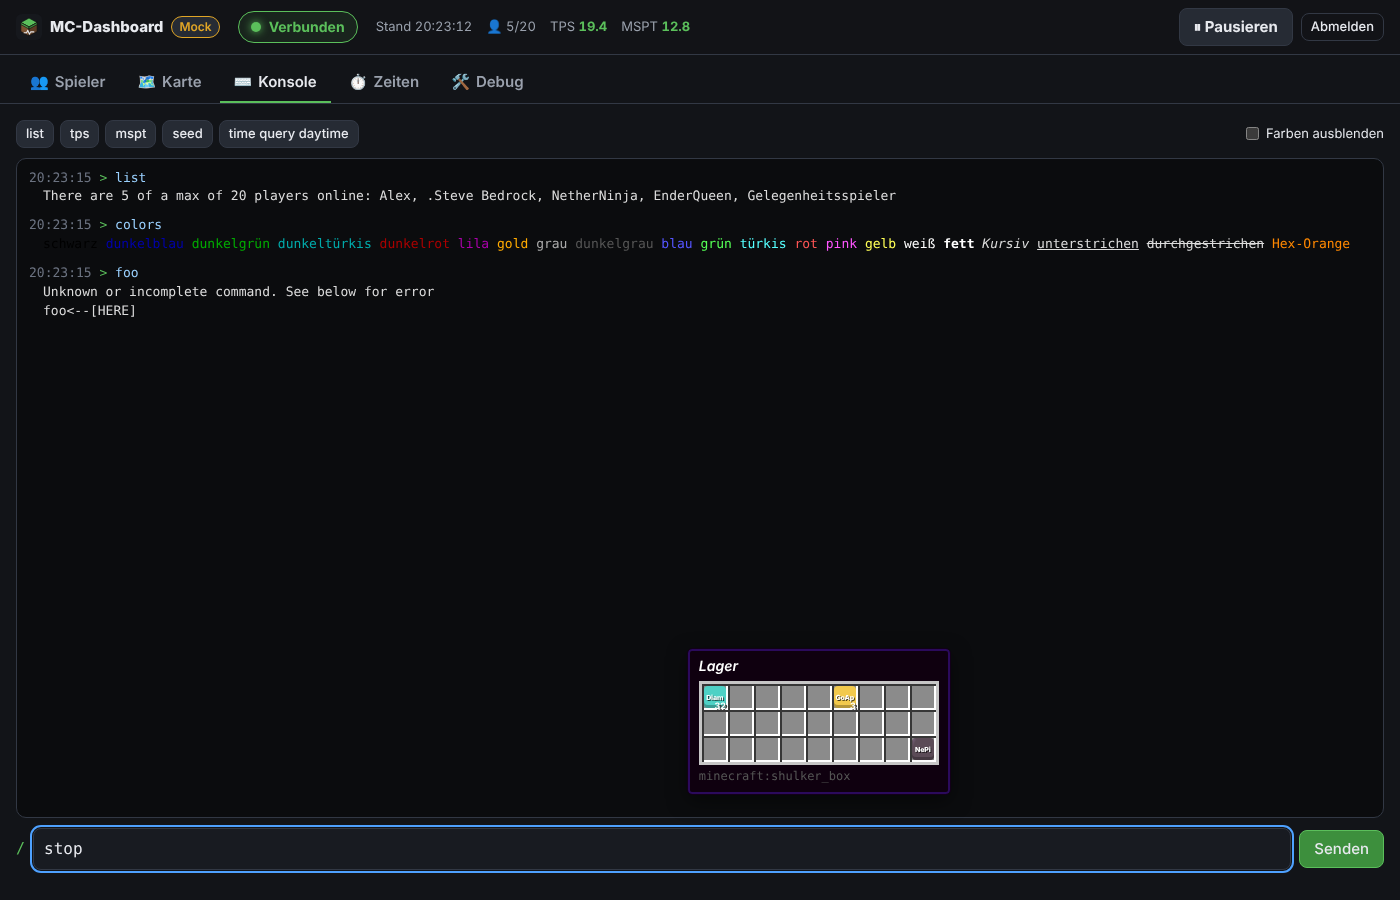
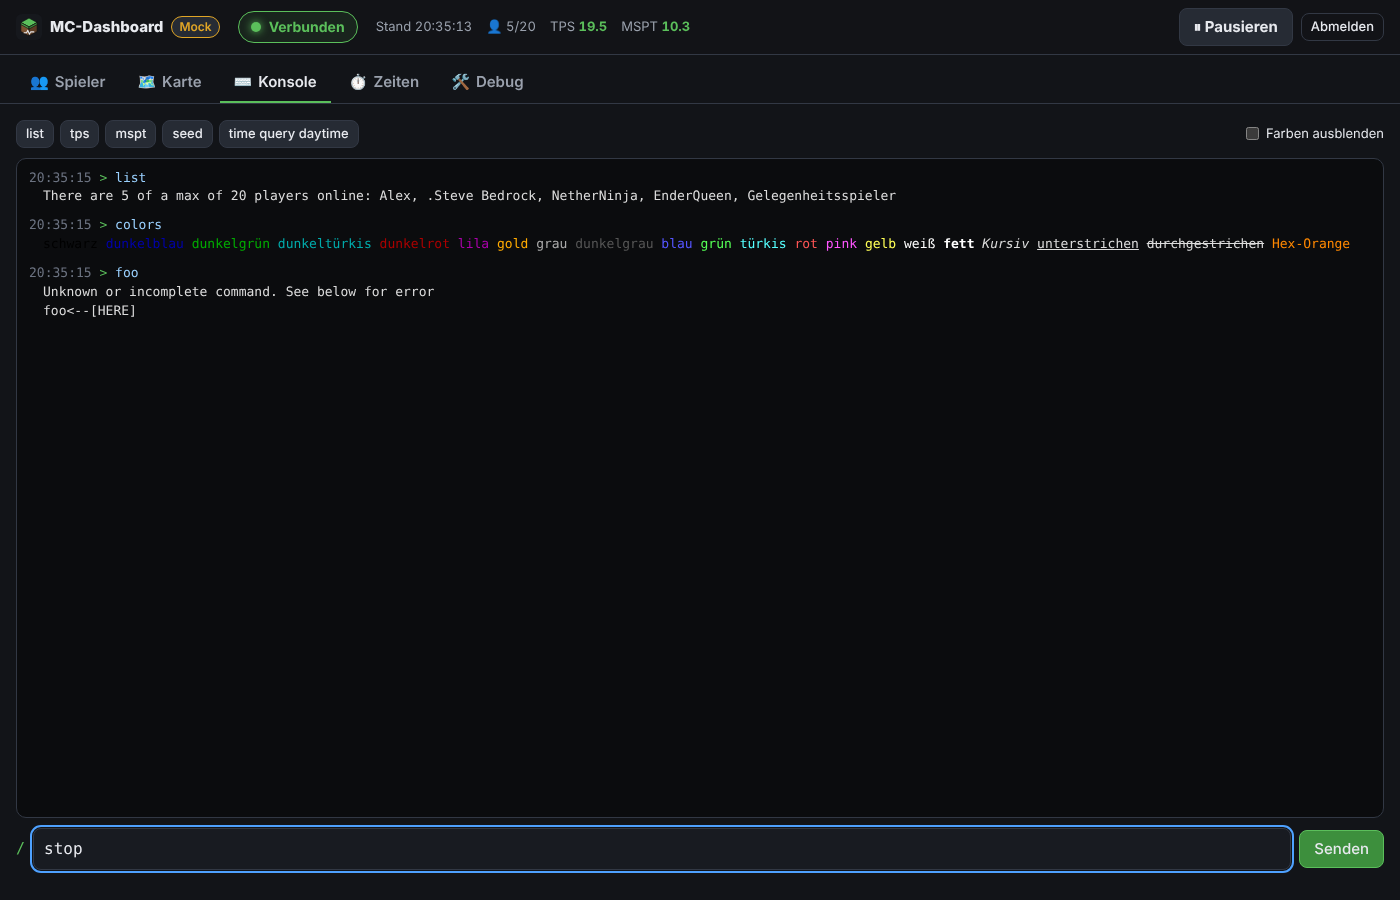
Schritt 6: Dockerfile (Multi-Arch), docker-compose, GitHub Actions, README
- Multi-Stage-Image (node:24-alpine), läuft als unprivilegierter Benutzer;
  Entrypoint übernimmt Synology-Ordner bzw. nutzt PUID/PGID
- Healthcheck, tini, restart: unless-stopped
- amd64 und arm64 lokal gebaut und gestartet (arm64 per QEMU), Image gegen
  echten Paper-26.3-Testserver geprüft
- Workflows: Tests bei jedem Push, Image nach ghcr.io bei Push auf main/Tags
- Deutsche README mit Anleitung für Nitrado-RCON und Synology Container Manager

Claude-Session: https://claude.ai/code/session_01SLCFpHkRxRn3e4GgGBiTNM

Changed region(s): [[0.4914, 0.7156, 0.6757, 0.8711]]

diff --git a/README.md b/README.md
@@ -1,0 +1,200 @@
+# MC-Dashboard
+
+Selbst gehostetes Web-Dashboard für einen Minecraft-Server (Paper, getestet mit **26.3**). Es nutzt **ausschließlich RCON**: keine Plugins, keine Mods, nichts muss auf dem Server installiert werden. Gedacht für den Betrieb als Docker-Container auf einer Synology NAS im Heimnetz.
+
+<p>
+<img src="docs/img/desktop-spieler.png" alt="Spieleransicht mit Inventar und Tooltip" width="640">
+<img src="docs/img/iphone-spieler.png" alt="Spielerliste auf dem iPhone" width="180">
+<img src="docs/img/iphone-karte.png" alt="Karte auf dem iPhone" width="180">
+</p>
+
+## Funktionen
+
+- **Spieler:** wer online ist, Koordinaten, Dimension, Leben, Hunger, XP-Level, Spielmodus, Effekte. Bedrock-Spieler (Geyser/Floodgate, z. B. `.Steve Bedrock`) werden erkannt und überall per UUID angesprochen, Präfixe und Leerzeichen sind also kein Problem.
+- **Inventare wie im Spiel:** Inventar mit Hotbar, Rüstung, Offhand und Enderkiste. Der Tooltip zeigt Name, Anzahl, Verzauberungen, eigenen Namen, Haltbarkeit, Lore und den Inhalt von Shulkerkisten und Bündeln.
+- **Offline-Stand:** Das letzte bekannte Inventar und die letzte Position werden gespeichert („Stand: …“).
+- **2D-Karte:** Raster mit Koordinaten, Zoom und Verschieben (Maus und Touch), Tabs für Oberwelt/Nether/Ende, Spieler als Punkte. Ein Klick auf einen Spieler öffnet seine Details.
+- **Konsole:** Befehle senden, §-Farbcodes werden dargestellt, Verlauf mit ↑/↓. Gefährliche Befehle (`stop`, `op`, `ban`, `kill`, `whitelist` …, auch in `execute … run`) verlangen eine Bestätigung.
+- **Online-Zeiten:** Sessions aus dem Vergleich der `/list`-Abfragen, Gesamtzeit, letzte Sessions, „zuletzt gesehen“.
+- **Pause-Schalter:** stoppt **alle** automatischen RCON-Abfragen und bleibt auch nach einem Neustart erhalten. Die Zeit der Pause wird als „unbekannt“ gespeichert, nicht als offline. Die Konsole funktioniert weiter.
+- **Status:** verbunden / pausiert / Verbindungsfehler, Zeitpunkt der letzten Aktualisierung, TPS und MSPT von Paper.
+- **Debug-Seite:** letzte Rohantworten pro Befehl und alle Parser-Warnungen, als JSON herunterladbar.
+- **Handy:** responsives Layout, als Web-App auf dem iPhone-Home-Bildschirm nutzbar.
+
+## Wie es funktioniert (und was es auf dem Server tut)
+
+Alle 5 Sekunden (einstellbar) sendet das Dashboard über **eine einzige** RCON-Verbindung:
+
+| Befehl | Wofür | Häufigkeit |
+|---|---|---|
+| `list uuids` | Wer ist online (Name + UUID) | jede Abfrage |
+| `data modify storage mcdash:tmp s set string entity <UUID>` | alle Daten eines Spielers (Position, Werte, Inventare) | pro Online-Spieler |
+| `tps`, `mspt` | Serverleistung (Paper) | alle 30 s |
+
+Warum dieser seltsame zweite Befehl? `/data get entity` wird über RCON nach etwa 32 Textstücken mit „...“ **abgeschnitten**, das ist eine Schutzfunktion von Minecraft selbst. Der Befehl oben schlägt absichtlich fehl. Die Fehlermeldung enthält die **vollständigen** Spielerdaten in kompakter Form, und es wird dabei **nichts gespeichert oder verändert**. Das wurde an einem echten Paper-26.3-Server geprüft. Details stehen in [docs/datenformat.md](docs/datenformat.md).
+
+Bei 5 Spielern sind das etwa 6 sehr leichte Befehle alle 5 Sekunden. Für den Server ist das vernachlässigbar.
+
+---
+
+## Einrichtung
+
+### 1. RCON bei Nitrado aktivieren
+
+1. Im Nitrado-Webinterface den Server **stoppen**.
+2. Die Datei `server.properties` öffnen. Je nach Ansicht geht das über **Einstellungen** (eventuell den **Expertenmodus** einschalten) oder über **Konfigurationsdateien** / **Dateibrowser**. Hat das Webinterface eigene Felder für RCON, trag die Werte dort ein, damit Nitrado sie nicht überschreibt.
+3. Diese Werte setzen:
+   ```properties
+   enable-rcon=true
+   rcon.port=25575
+   rcon.password=EIN-LANGES-ZUFAELLIGES-PASSWORT
+   ```
+   - **Port:** Nitrado vergibt die Ports pro Server. Steht im Webinterface ein eigener RCON-Port oder ist `rcon.port` bereits vorbelegt, nimm **diesen** Wert und ändere ihn nicht.
+   - **Passwort:** mindestens 20 zufällige Zeichen, nirgends sonst verwenden. RCON ist **unverschlüsselt** und gibt **vollen Zugriff** auf den Server.
+4. Speichern und den Server **starten**. RCON wird nur beim Start aktiviert.
+5. Notieren: die **IP-Adresse** des Servers (ohne Spiel-Port), den **RCON-Port** und das **RCON-Passwort**.
+
+> Ob alles stimmt, zeigt später das Dashboard: „Verbindung abgelehnt (RCON aktiv? Port richtig?)“ heißt, dass Port oder `enable-rcon` nicht stimmen. „RCON-Passwort falsch“ erklärt sich selbst.
+
+### 2. Docker-Image bereitstellen
+
+Das Image wird bei jedem Push auf `main` automatisch per GitHub Actions gebaut, für **amd64 und arm64** (Intel/AMD- und ARM-NAS): `ghcr.io/irgendeinjohan/mcrcondocker:latest`
+
+- **Öffentliches Repository:** Das Paket kann direkt geladen werden. Falls nicht, auf GitHub unter *Profil → Packages → mcrcondocker → Package settings → Change visibility → Public* umstellen. Das Image enthält keine Passwörter.
+- **Privates Paket:** Im Container Manager unter *Registry → Einstellungen → Hinzufügen* die Registry `https://ghcr.io` mit deinem GitHub-Benutzernamen und einem Token mit dem Recht `read:packages` als Passwort eintragen.
+- **Alternativ selbst bauen:** Das Repository als ZIP herunterladen (*Code → Download ZIP*), in den Projektordner entpacken und in der Compose-Datei `image:` durch `build: .` ersetzen. Der Bau dauert auf schwachen NAS einige Minuten.
+
+### 3. Projekt im Synology Container Manager anlegen
+
+1. **Container Manager** aus dem Paketzentrum installieren (DSM 7.2 oder neuer).
+2. In der **File Station** den Ordner `docker/mc-dashboard` und darin einen Unterordner `data` anlegen.
+3. **Container Manager → Projekt → Erstellen**
+   - Projektname: `mc-dashboard`
+   - Pfad: `/docker/mc-dashboard`
+   - Quelle: **docker-compose.yml erstellen**. Den folgenden Inhalt einfügen und die markierten Werte anpassen:
+
+   ```yaml
+   services:
+     mc-dashboard:
+       image: ghcr.io/irgendeinjohan/mcrcondocker:latest
+       container_name: mc-dashboard
+       restart: unless-stopped
+       environment:
+         DASHBOARD_PASSWORD: "dein-dashboard-passwort"   # ← ändern (min. 8 Zeichen)
+         RCON_HOST: "123.45.67.89"                       # ← IP des Nitrado-Servers
+         RCON_PORT: "25575"                              # ← RCON-Port
+         RCON_PASSWORD: "dein-rcon-passwort"             # ← RCON-Passwort
+         TZ: "Europe/Berlin"
+         POLL_INTERVAL_SECONDS: "5"
+         FLOODGATE_PREFIX: "."
+       ports:
+         - "8080:8080"                                   # ← links ggf. anderen freien Port wählen
+       volumes:
+         - ./data:/data
+   ```
+4. **Weiter** → die Web-Portal-Einstellungen überspringen → **Fertig**. Das Image wird geladen und der Container gestartet.
+5. Im Browser `http://<IP-der-NAS>:8080` öffnen und mit dem Dashboard-Passwort anmelden.
+
+**Dateirechte:** Der Container startet als unprivilegierter Benutzer und übernimmt beim Start den Ordner `data` automatisch. Klappt das auf deinem System nicht, steht im Container-Protokoll ein Hinweis. Dann in der Compose-Datei unter `environment` `PUID` und `PGID` auf die IDs deines NAS-Benutzers setzen. Die findest du per SSH mit dem Befehl `id`, meist `PUID: "1026"` und `PGID: "100"`.
+
+**Update:** *Container Manager → Projekt → mc-dashboard → Aktion → Stoppen*, dann unter *Image* das Image `ghcr.io/irgendeinjohan/mcrcondocker` auswählen und **Aktualisieren** (bzw. löschen), anschließend das Projekt wieder **Erstellen/Starten**. Die Daten in `data/` bleiben erhalten.
+
+### 4. Als App auf dem iPhone
+
+Das Dashboard in **Safari** öffnen → **Teilen** → **Zum Home-Bildschirm**. Es startet dann im Vollbild wie eine App. Offline-Unterstützung (Service Worker) gibt es nur, wenn das Dashboard über **HTTPS** läuft (siehe [Sicherheit](#sicherheit)). Über HTTP im Heimnetz funktioniert alles andere genauso.
+
+---
+
+## Item-Texturen und deutsche Item-Namen (optional)
+
+Ohne weitere Dateien zeigt das Dashboard farbige Kacheln mit Kurznamen (z. B. „DiSw“ für Diamond Sword). Echte Bilder kannst du aus **deiner eigenen** Minecraft-Installation bereitstellen. Das Dashboard lädt nichts aus dem Internet und bringt keine Assets mit.
+
+1. Den Ordner `data/assets` anlegen (in der File Station: `docker/mc-dashboard/data/assets`).
+2. Die Client-`.jar` deiner Minecraft-Version **hineinkopieren**, entpacken ist nicht nötig:
+   - Windows: `%APPDATA%\.minecraft\versions\26.3\26.3.jar`
+   - macOS: `~/Library/Application Support/minecraft/versions/26.3/26.3.jar`
+   - Linux: `~/.minecraft/versions/26.3/26.3.jar`
+3. Container neu starten. Auf der Debug-Seite steht dann „Texturen: jar (26.3.jar)“, und die Item-Namen kommen aus der englischen Sprachdatei der `.jar`.
+
+Alternativ geht auch ein entpackter Ordner `data/assets/textures/item/*.png` und `…/block/*.png`.
+
+**Deutsche Namen:** Die deutsche Sprachdatei liegt nicht in der `.jar`, sondern im Asset-Speicher des Launchers:
+1. `.minecraft/assets/indexes/` → die neueste `.json`-Datei mit einem Texteditor öffnen und nach `minecraft/lang/de_de.json` suchen. Dahinter steht ein `"hash": "ab12…"`.
+2. Die Datei `.minecraft/assets/objects/ab/ab12…` (erste zwei Zeichen = Ordner) nach `data/assets/de_de.json` kopieren.
+3. Container neu starten.
+
+---
+
+## Konfiguration
+
+| Variable | Standard | Bedeutung |
+|---|---|---|
+| `DASHBOARD_PASSWORD` | – (Pflicht) | Passwort für die Anmeldung (min. 8 Zeichen) |
+| `RCON_HOST` | – (Pflicht) | IP/Hostname des Minecraft-Servers |
+| `RCON_PORT` | `25575` | RCON-Port |
+| `RCON_PASSWORD` | – (Pflicht) | RCON-Passwort |
+| `POLL_INTERVAL_SECONDS` | `5` | Abfrageintervall (min. 2) |
+| `PERF_INTERVAL_SECONDS` | `30` | Intervall für `/tps` und `/mspt` |
+| `RCON_TIMEOUT_SECONDS` | `10` | Wartezeit auf eine RCON-Antwort |
+| `FLOODGATE_PREFIX` | `.` | Namenspräfix von Bedrock-Spielern |
+| `DANGEROUS_COMMANDS` | – | zusätzliche Befehle, die eine Bestätigung brauchen (kommagetrennt) |
+| `SESSION_DAYS` | `30` | wie lange eine Anmeldung gültig bleibt |
+| `LANGUAGE_FILE` | `de_de` | Name der Sprachdatei in `data/assets` |
+| `PUID` / `PGID` | – | Container mit dieser Benutzer-/Gruppen-ID betreiben |
+| `TRUST_PROXY` | `false` | `true`, wenn ein Reverse-Proxy davor sitzt |
+| `COOKIE_SECURE` | `auto` | `auto` = Secure-Cookie nur bei HTTPS |
+| `MOCK` | `false` | Beispieldaten statt echtem Server (siehe unten) |
+
+Die RCON-Zugangsdaten stehen nur in den Umgebungsvariablen. Sie werden nie an den Browser geschickt und nie protokolliert.
+
+## Sicherheit
+
+- Das Dashboard ist für das **Heimnetz** gedacht. **Keine Portfreigabe** im Router einrichten.
+- Anmeldung mit einem Passwort. Die Sitzung liegt in einem HttpOnly-Cookie (`SameSite=Strict`). Nach 5 Fehlversuchen in 15 Minuten wird die IP gesperrt.
+- RCON-Verbindungen sind **unverschlüsselt**. Das Passwort geht im Klartext zu Nitrado, deshalb ein eigenes, langes RCON-Passwort verwenden.
+- **HTTPS (optional):** Über *Systemsteuerung → Anmeldeportal → Erweitert → Reverse Proxy* einen Eintrag von `https://mc.deine-nas.local:8443` auf `http://localhost:8080` anlegen und `TRUST_PROXY: "true"` setzen. Dann sind auch Secure-Cookies und der Service Worker aktiv.
+
+## Pause und Online-Zeiten
+
+- **⏸ Pausieren** stoppt alle automatischen Abfragen sofort. Der Zustand wird gespeichert und gilt auch nach einem Neustart.
+- Während der Pause, bei Verbindungsfehlern und solange das Dashboard selbst nicht läuft, ist unbekannt, wer online war. Diese Zeiten werden als **Lücke** gespeichert. Sessions, die in eine Lücke fallen, enden mit „unbekannt“, und die Lücke zählt **nicht** zur Online-Zeit. Unter *Zeiten* ist jede Lücke mit Grund aufgeführt.
+- Eine Session beginnt mit der ersten Abfrage, bei der ein Spieler online ist, und endet mit der ersten, bei der er fehlt. Die Genauigkeit entspricht also dem Abfrageintervall.
+
+## Fehlerbehebung
+
+| Anzeige | Ursache / Lösung |
+|---|---|
+| „Verbindung abgelehnt (RCON aktiv? Port richtig?)“ | `enable-rcon=true`? Server danach neu gestartet? RCON-Port richtig? |
+| „RCON-Passwort falsch“ | `RCON_PASSWORD` mit `rcon.password` vergleichen (Groß-/Kleinschreibung) |
+| „Zeitüberschreitung beim Verbinden“ | IP falsch oder Server offline |
+| Inventare fehlen, Hinweis „Rückfallweg“ | Das Antwortformat hat sich geändert (z. B. nach einem Minecraft-Update). Auf der **Debug-Seite** „Als JSON herunterladen“ und die Datei zur Analyse weitergeben. |
+| Container startet nicht, „DASHBOARD_PASSWORD …“ im Protokoll | Pflichtvariable fehlt oder ist zu kurz |
+| Warnung „/data ist … nicht beschreibbar“ | `PUID`/`PGID` setzen (siehe oben) |
+
+## Mock-Modus (ohne echten Server ausprobieren)
+
+```yaml
+environment:
+  MOCK: "true"
+  DASHBOARD_PASSWORD: "mock-passwort"
+```
+
+Simuliert werden fünf Spieler, darunter der Bedrock-Spieler `.Steve Bedrock`, in allen Dimensionen. Sie bewegen sich und loggen sich ein und aus. Die Antworten haben exakt das Format von Paper 26.3. Mit `MOCK_OLD_FORMAT: "true"` kommen die Daten im alten Format (1.20.4).
+
+## Entwicklung
+
+```bash
+npm install
+npm run mock          # Backend im Mock-Modus auf :8080 (Passwort "mock")
+npm run dev:web       # Vite-Dev-Server auf :5173 (leitet /api an :8080 weiter)
+npm test              # Unit- und Integrationstests (Parser, RCON, Sessions, API)
+npm run check         # Typprüfung Backend + Svelte
+npm run build         # Produktions-Build nach dist/
+```
+
+- `src/server`: Fastify-Backend (RCON-Client, Parser, Poller, SQLite über `node:sqlite`)
+- `src/web`: Svelte-5-Frontend
+- `src/shared`: gemeinsame Typen, §-Code- und Text-Komponenten-Parser
+- `tests/fixtures/26.3`: **echte** Rohantworten eines Paper-26.3-Testservers. Wie sie aufgezeichnet werden, steht in [docs/testserver.md](docs/testserver.md).
+- [docs/datenformat.md](docs/datenformat.md): Datenformat und RCON-Verhalten mit Quellen
+- [docs/PLAN.md](docs/PLAN.md): Architektur und Plan
